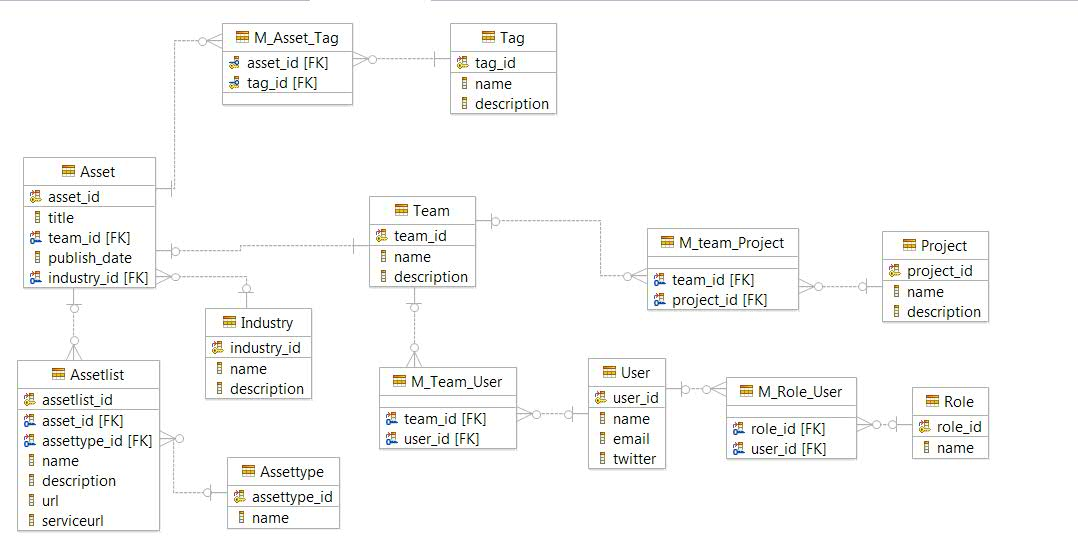
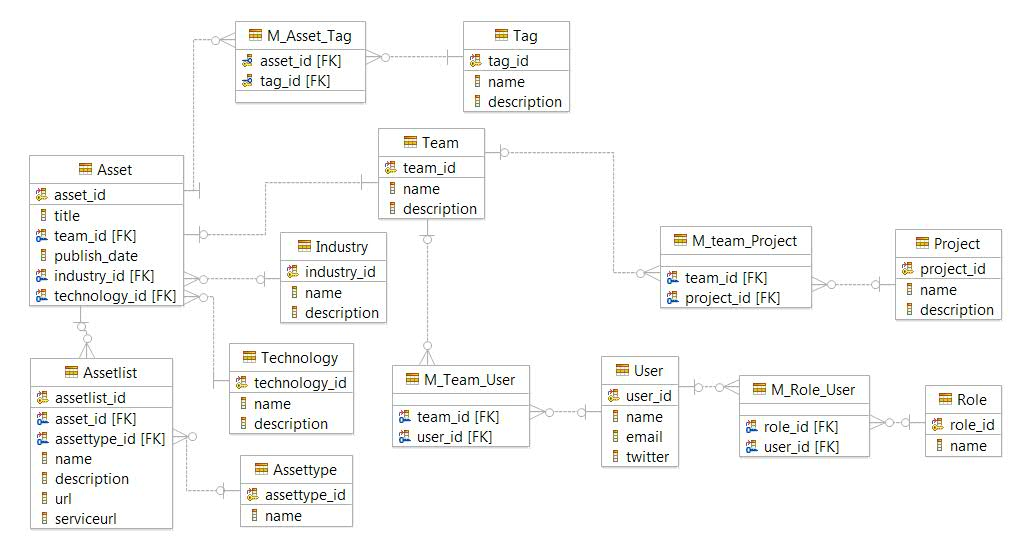
add technology

diff --git a/app/db/sql.js b/app/db/sql.js
@@ -3,14 +3,17 @@ var db = require('./db');
 var schema = config.schema;
 module.exports = {
 	queryAdmin : "select * from DASH110031.user where NAME = ?",
-	queryAsset : "select asset.asset_id as asset_id,assetlist.assetlist_id as assetlist_id,asset.title as asset_title,(select team.name from DASH110031.team team where team.team_id =asset.team_id ) as team_name,(select industry.name from DASH110031.industry industry where industry.industry_id =asset.industry_id ) as industry_name,(select assettype.name from DASH110031.assettype assettype where assettype.assettype_id = assetlist.assettype_id ) as assettype_name,assetlist.name as assetlist_name,assetlist.description as assetlist_description,assetlist.url as assetlist_url,assetlist.serviceurl as assetlist_serviceurl from DASH110031.asset asset,DASH110031.assetlist assetlist where asset.asset_id = assetlist.asset_id ",
-	queryAssetByID : "select asset.asset_id as asset_id,assetlist.assetlist_id as assetlist_id,asset.title as asset_title,(select team.name from DASH110031.team team where team.team_id =asset.team_id ) as team_name,(select industry.name from DASH110031.industry industry where industry.industry_id =asset.industry_id ) as industry_name,(select assettype.name from DASH110031.assettype assettype where assettype.assettype_id = assetlist.assettype_id ) as assettype_name,assetlist.name as assetlist_name,assetlist.description as assetlist_description,assetlist.url as assetlist_url,assetlist.serviceurl as assetlist_serviceurl from DASH110031.asset asset,DASH110031.assetlist assetlist where asset.asset_id = assetlist.asset_id and assetlist.assetlist_id = ?",
+	queryAsset : "select asset.asset_id as asset_id,assetlist.assetlist_id as assetlist_id,asset.title as asset_title,(select team.name from DASH110031.team team where team.team_id =asset.team_id ) as team_name,(select industry.name from DASH110031.industry industry where industry.industry_id =asset.industry_id ) as industry_name,(select technology.name from DASH110031.technology technology where technology.technology_id =asset.technology_id ) as technology_name,(select assettype.name from DASH110031.assettype assettype where assettype.assettype_id = assetlist.assettype_id ) as assettype_name,assetlist.name as assetlist_name,assetlist.description as assetlist_description,assetlist.url as assetlist_url,assetlist.serviceurl as assetlist_serviceurl from DASH110031.asset asset,DASH110031.assetlist assetlist where asset.asset_id = assetlist.asset_id",
+	queryAssetByID : "select asset.asset_id as asset_id,assetlist.assetlist_id as assetlist_id,asset.title as asset_title,(select team.name from DASH110031.team team where team.team_id =asset.team_id ) as team_name,(select industry.name from DASH110031.industry industry where industry.industry_id =asset.industry_id ) as industry_name,(select technology.name from DASH110031.technology technology where technology.technology_id =asset.technology_id ) as technology_name,(select assettype.name from DASH110031.assettype assettype where assettype.assettype_id = assetlist.assettype_id ) as assettype_name,assetlist.name as assetlist_name,assetlist.description as assetlist_description,assetlist.url as assetlist_url,assetlist.serviceurl as assetlist_serviceurl from DASH110031.asset asset,DASH110031.assetlist assetlist where asset.asset_id = assetlist.asset_id and assetlist.assetlist_id = ?",
 	queryUser : "select * from DASH110031.user",
 	insertUser : "insert into DASH110031.user(user_id,name,email,twitter) values((select nvl(max(user_id),0)+1 from DASH110031.user),?,?,?)",
 	updateUser : "update DASH110031.user set name = ?,email=?,twitter=? where user_id = ?",
 	deleteUser : "delete from DASH110031.user where user_id = ?",
 	queryAssetType : "select * from DASH110031.assettype ",
 	getIndustry : " select * from DASH110031.industry ",
-	getTeam : "select * from DASH110031.team " 
+	getTeam : "select * from DASH110031.team ",
+	getTechnology : "select * from DASH110031.technology ",
+	getAssetsByTechnology : "select asset.asset_id as asset_id,assetlist.assetlist_id as assetlist_id,asset.title as asset_title,(select team.name from DASH110031.team team where team.team_id =asset.team_id ) as team_name,(select industry.name from DASH110031.industry industry where industry.industry_id =asset.industry_id ) as industry_name,(select technology.name from DASH110031.technology technology where technology.technology_id =asset.technology_id ) as technology_name,(select assettype.name from DASH110031.assettype assettype where assettype.assettype_id = assetlist.assettype_id ) as assettype_name,assetlist.name as assetlist_name,assetlist.description as assetlist_description,assetlist.url as assetlist_url,assetlist.serviceurl as assetlist_serviceurl from DASH110031.asset asset,DASH110031.assetlist assetlist where asset.asset_id = assetlist.asset_id and asset.technology_id = ?",
+	getAssetsByIndustry : "select asset.asset_id as asset_id,assetlist.assetlist_id as assetlist_id,asset.title as asset_title,(select team.name from DASH110031.team team where team.team_id =asset.team_id ) as team_name,(select industry.name from DASH110031.industry industry where industry.industry_id =asset.industry_id ) as industry_name,(select technology.name from DASH110031.technology technology where technology.technology_id =asset.technology_id ) as technology_name,(select assettype.name from DASH110031.assettype assettype where assettype.assettype_id = assetlist.assettype_id ) as assettype_name,assetlist.name as assetlist_name,assetlist.description as assetlist_description,assetlist.url as assetlist_url,assetlist.serviceurl as assetlist_serviceurl from DASH110031.asset asset,DASH110031.assetlist assetlist where asset.asset_id = assetlist.asset_id and asset.industry_id = ?"
 
 }

diff --git a/app/services/dbServer.js b/app/services/dbServer.js
@@ -79,6 +79,12 @@ module.exports = {
 
 	},
 	getAssetByKey : function(req, res, next){
+		if(req.query.id == undefined){
+			var errorObj = {};
+			errorObj.error = "Parameter Error"
+			res.json(errorObj);
+			res.end();
+		}
 		var AssetListId = req.query.id; 
 		console.log("Query AssetList by AssetID");
 		db.executeSql(sql.queryAssetByID,[AssetListId],
@@ -200,6 +206,76 @@ module.exports = {
 			}
 		);
 	},
+
+	getTechnology : function(req, res, next){
+		
+		db.executeSql(sql.getTechnology,[],
+			function(data){
+				res.json(data);
+				res.end();
+			},
+			function(err){
+				res.send(err);
+			});
+
+	},
+
+	getAssetsByTechnology : function(req, res, next){
+		
+		if(req.query.id == undefined){
+			var errorObj = {};
+			errorObj.error = "Parameter Error"
+			res.json(errorObj);
+			res.end();
+		}
+		var technologyId = req.query.id; 
+		console.log("Query AssetList by Technology");
+		db.executeSql(sql.getAssetsByTechnology,[technologyId],
+			function(data){
+				var ConMapping = new mapping.mappingConfig();
+				var assetListObj = ConMapping.assetListObj;
+				var assetConMapping = ConMapping.assetListMapping;
+				var returnObj = convertResponse(assetListObj,assetConMapping,data);
+				console.log("Query AssetList by Technology success:"+ data);
+				res.json(returnObj);
+				res.end();
+			},
+			function(err){
+				res.send(err);
+			}
+		);
+
+	},
+
+	getAssetsByIndustry : function(req, res, next){
+		
+		
+
+		if(req.query.id == undefined){
+			var errorObj = {};
+			errorObj.error = "Parameter Error"
+			res.json(errorObj);
+			res.end();
+		}
+		var industryId = req.query.id; 
+		console.log("Query AssetList by Industry");
+		db.executeSql(sql.getAssetsByIndustry,[industryId],
+			function(data){
+				var ConMapping = new mapping.mappingConfig();
+				var assetListObj = ConMapping.assetListObj;
+				var assetConMapping = ConMapping.assetListMapping;
+				var returnObj = convertResponse(assetListObj,assetConMapping,data);
+				console.log("Query AssetList by Industry success:"+ data);
+				res.json(returnObj);
+				res.end();
+			},
+			function(err){
+				res.send(err);
+			}
+		);
+
+	},
+
 };
 
 

diff --git a/app/routes/data.js b/app/routes/data.js
@@ -44,5 +44,17 @@ router.get('/team/getTeam',dbServer.getTeam, function(req,res){
 
 });
 
+router.get('/technology/getTechnology',dbServer.getTechnology, function(req,res){
+
+});
+
+router.get('/asset/getAssetsByTechnology',dbServer.getAssetsByTechnology, function(req,res){
+
+});
+
+router.get('/asset/getAssetsByIndustry',dbServer.getAssetsByIndustry, function(req,res){
+
+});
+
 
 module.exports = router;
